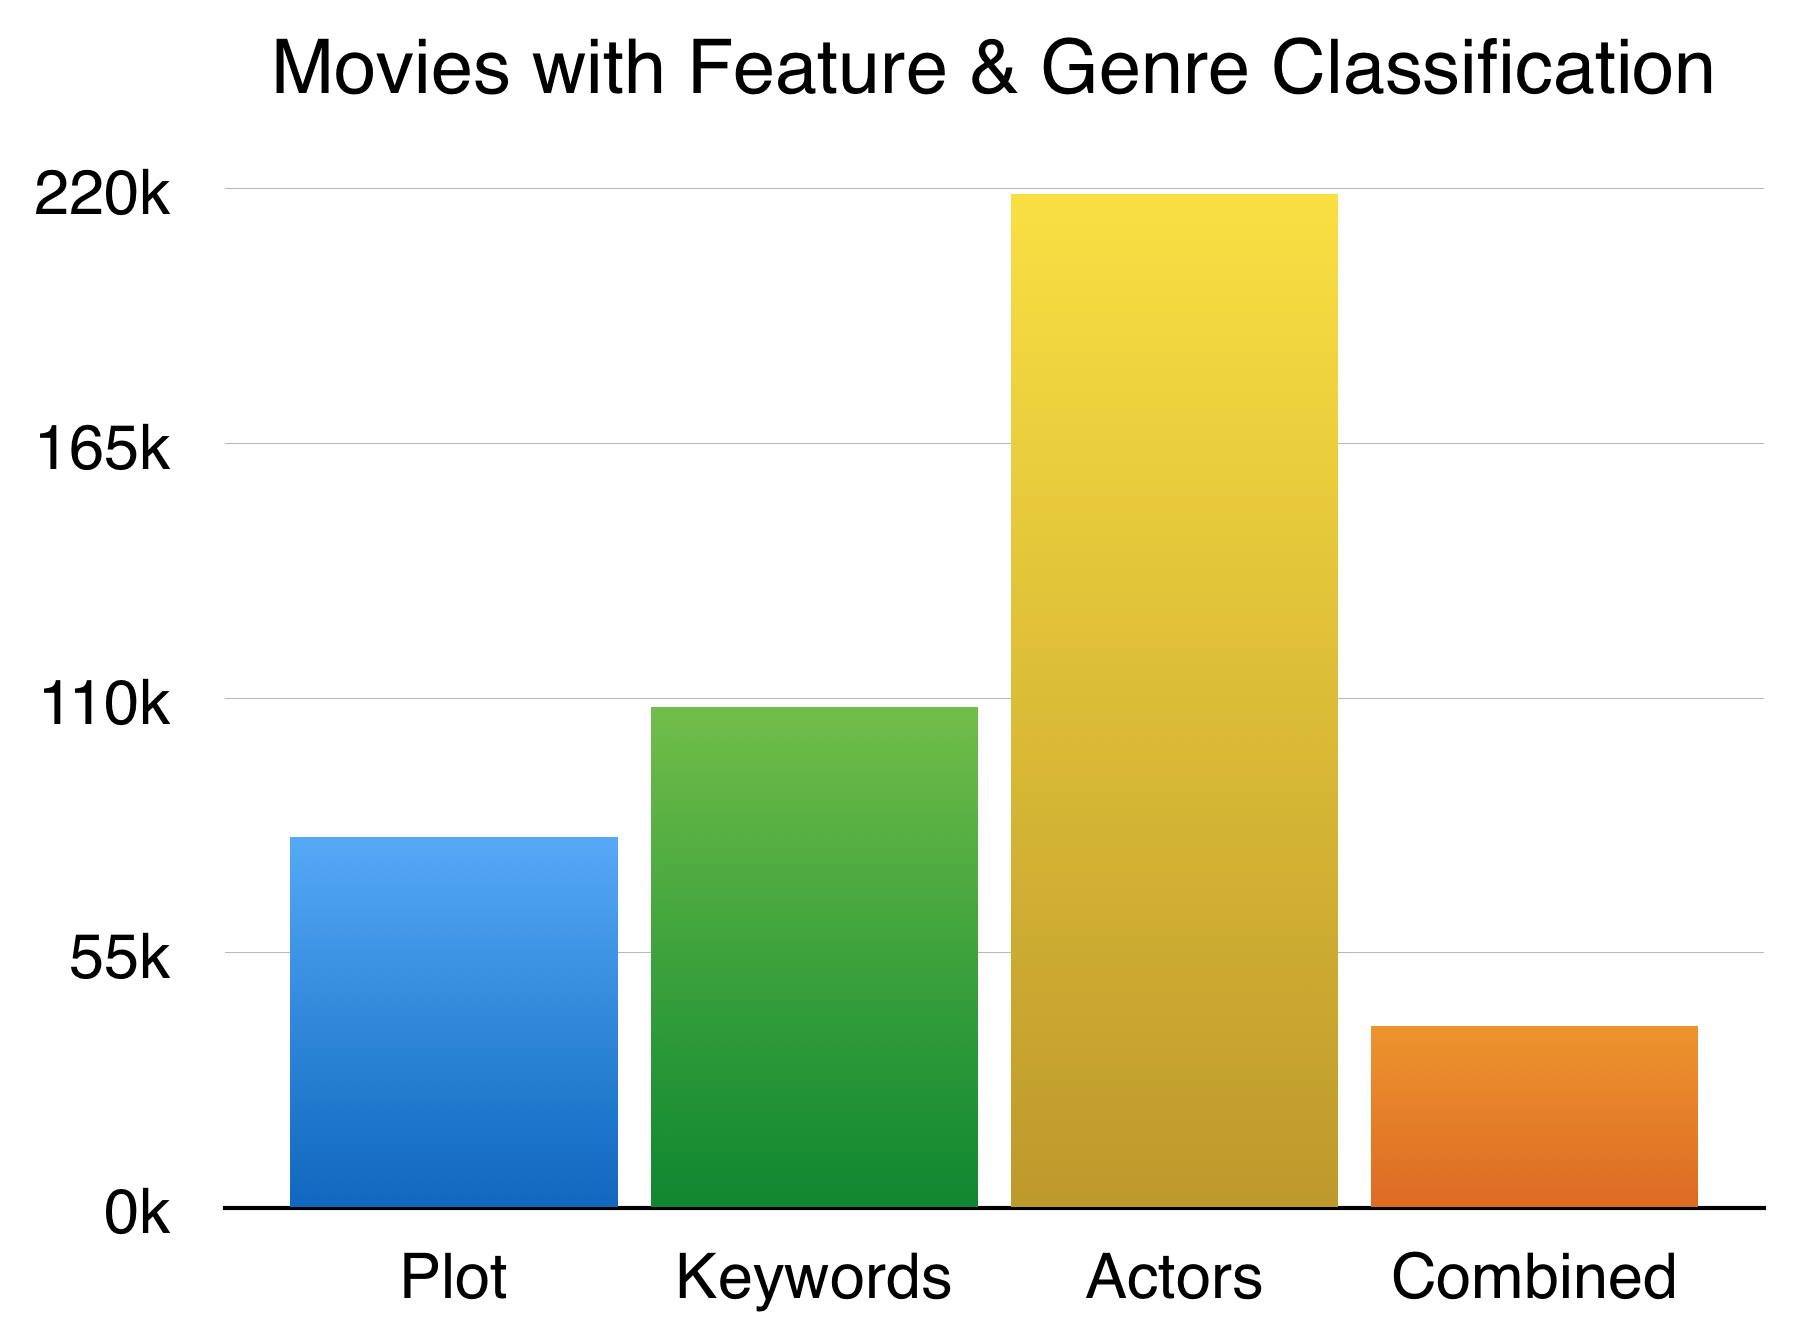
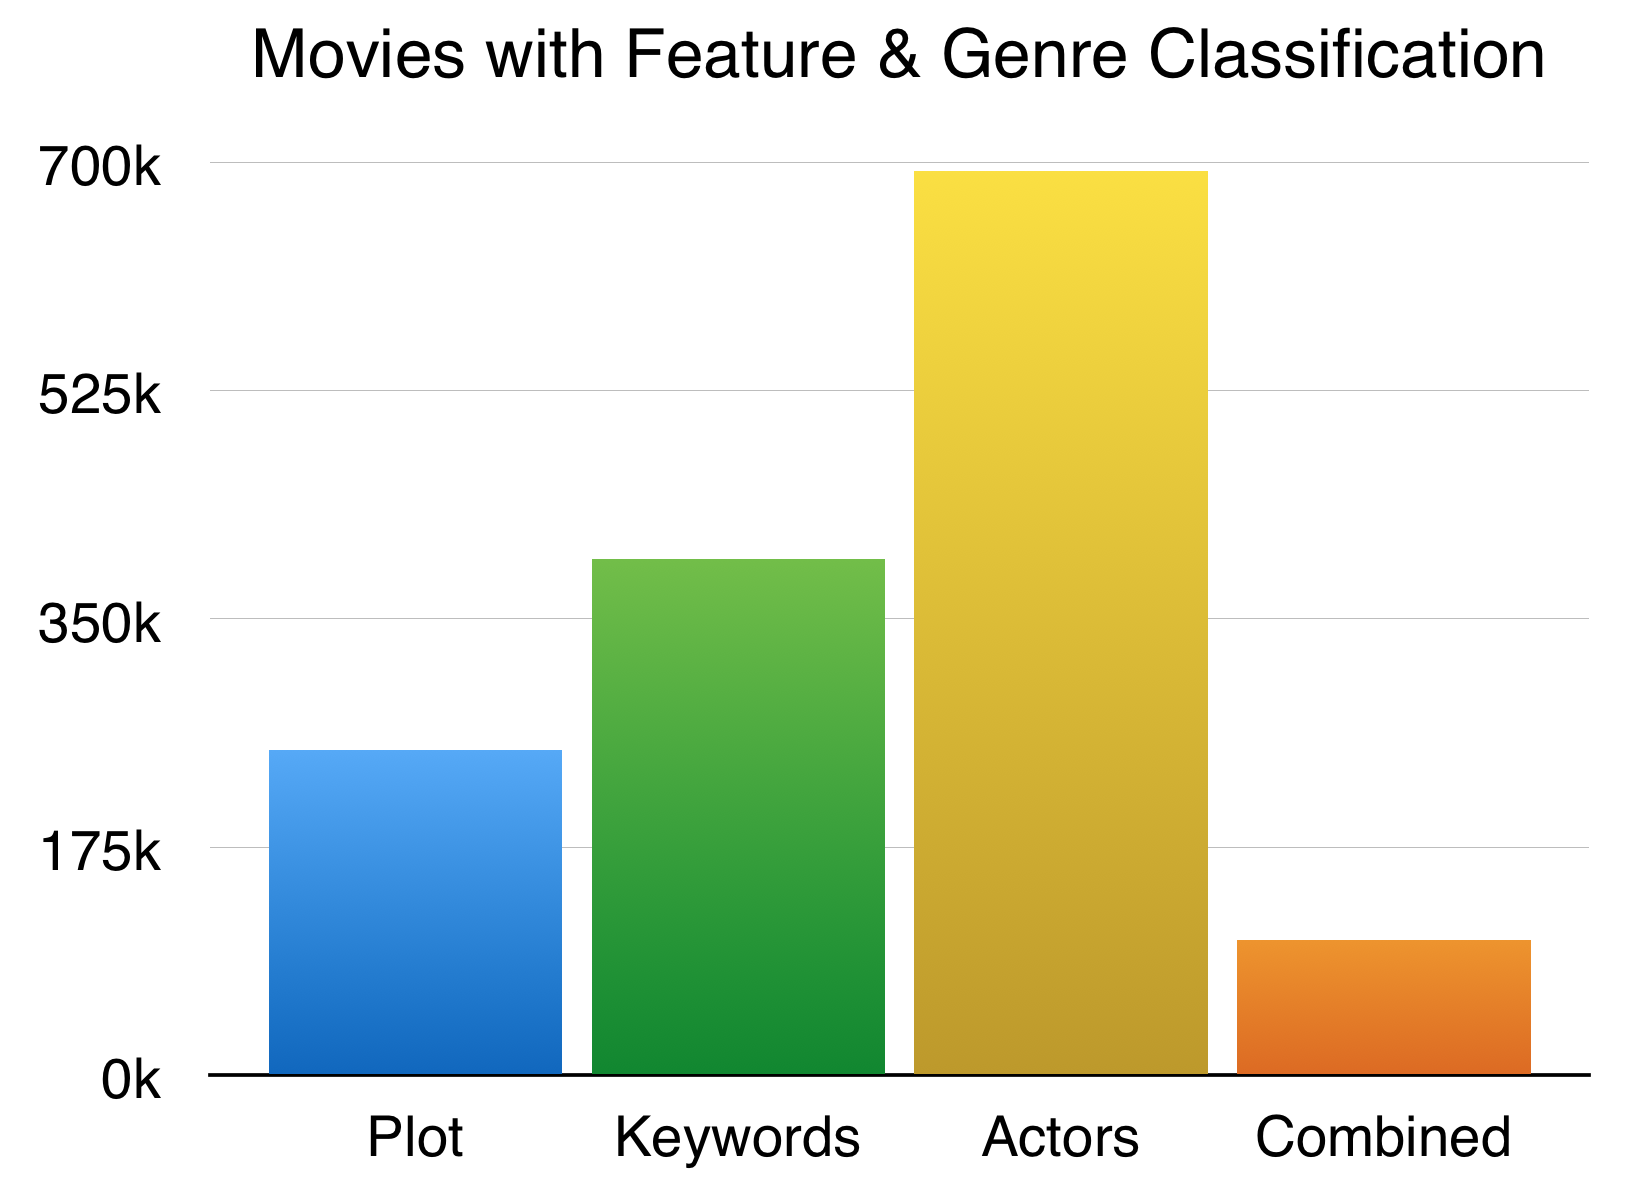
fixed miscalculated numbers

diff --git a/report/report.tex b/report/report.tex
@@ -122,19 +122,19 @@ After getting the $\mathbf{w}$, given a new data point, denoted by $\mathbf{x}$
 
 \par We started our experiments with using the plot descriptions and performed multiple runs with different number of learning iterations of the SVMs. We started with 5 training iterations and increased that number by 5 until we reached a maximum of 100 training iterations. After the plot descriptions we used other features of the movie to see whether we could do better. We also combined several features.
 
-\par The first approach was to use the plot description and transform it to a TF-IDF vector for each movie. For this approach we could use 80033 movies, which had a plot description as well as a genre label. We also tried to tune the IDF calculation by setting a min-doc-frequency. With this we could exclude words which do not appear in a minimum number of documents, but this seemed to not affect our results significantly so we didn't perform a detailed analysis of the effects of this parameter.
+\par The first approach was to use the plot description and transform it to a TF-IDF vector for each movie. For this approach we could use 249761 movies, which had a plot description as well as a genre label. We also tried to tune the IDF calculation by setting a min-doc-frequency. With this we could exclude words which do not appear in a minimum number of documents, but this seemed to not affect our results significantly so we didn't perform a detailed analysis of the effects of this parameter.
 
-\par The second approach was to use keywords of the movies, which were explicitly assigned by the maintainers of the IMDb. This provides us a similar textual representation of the content of the movie but with the advantage of being already filtered by a human and also containing words that do not appear in a typical plot description but might describe the type of  the movie quite well. We didn’t perform a TF-IDF transformation here and just constructed a vector per movie containing a 1 if it has a certain keyword and 0 if not. With this approach we could use 108224 movies, which provided a set of keywords and a genre label.
+\par The second approach was to use keywords of the movies, which were explicitly assigned by the maintainers of the IMDb. This provides us a similar textual representation of the content of the movie but with the advantage of being already filtered by a human and also containing words that do not appear in a typical plot description but might describe the type of  the movie quite well. We didn’t perform a TF-IDF transformation here and just constructed a vector per movie containing a 1 if it has a certain keyword and 0 if not. With this approach we could use 395647 movies, which provided a set of keywords and a genre label.
 
-\par The third approach was to create a connection between actors and the genre of movies they usually appear in. This feature isn’t content based at all but could be of significance cause we assume that most actors stick to one kind of genre during their carer. Similar to the keywords approach we didn’t use a TF-IDF transformation and just binary n-dimensional vector to represent the fact whether a actor appeared in the movie or not. Here we had a dataset of 218934 movies, which provided a list of actors as well as a genre label.
+\par The third approach was to create a connection between actors and the genre of movies they usually appear in. This feature isn’t content based at all but could be of significance cause we assume that most actors stick to one kind of genre during their carer. Similar to the keywords approach we didn’t use a TF-IDF transformation and just binary n-dimensional vector to represent the fact whether a actor appeared in the movie or not. Here we had a dataset of 693520 movies, which provided a list of actors as well as a genre label.
 
-\par As a final experiment we combined all 3 features. Therefore we constructed a set of 3 feature vectors - one for plot, one for keywords and one for actors - per movie. Now we trained 3 SVMs per genre - one for each feature vector. In the testing phase we feed the feature vectors to the SVMs and build a simple average over the results of all 3 SVMs per genre. Cause we could only use movies which provide valid feature vectors for all 3 features, we could only use a dataset of 39218 movies.
+\par As a final experiment we combined all 3 features. Therefore we constructed a set of 3 feature vectors - one for plot, one for keywords and one for actors - per movie. Now we trained 3 SVMs per genre - one for each feature vector. In the testing phase we feed the feature vectors to the SVMs and build a simple average over the results of all 3 SVMs per genre. Cause we could only use movies which provide valid feature vectors for all 3 features, we could only use a dataset of 103536 movies.
 
 \par See Figure \ref{fig:FeaturesAndGenresBarChart} for a comparison of the dataset sizes we were able to use for the different features.
 
 \par For all experiments we tried to classify the movie in 24 genres. We didn’t consider the genre “Short” in our computation and analysis since it’s a very large and fuzzy genre which is basically only based on the length of a movie but the goal was to create a content related classification. Also the genres Lifestyle, Erotica, Experimental, Commercial \& Film-Noir weren't used cause they only contained a very small number of movies - sometimes only one. The genres Game-Show and Talk-Show weren't used cause they are not classical movies in the sense of having a plot, professional actors etc..
 
-TODO: genre table - check numbers for number of movies
+TODO: genre table
 
 \begin{figure}
 \begin{center}
